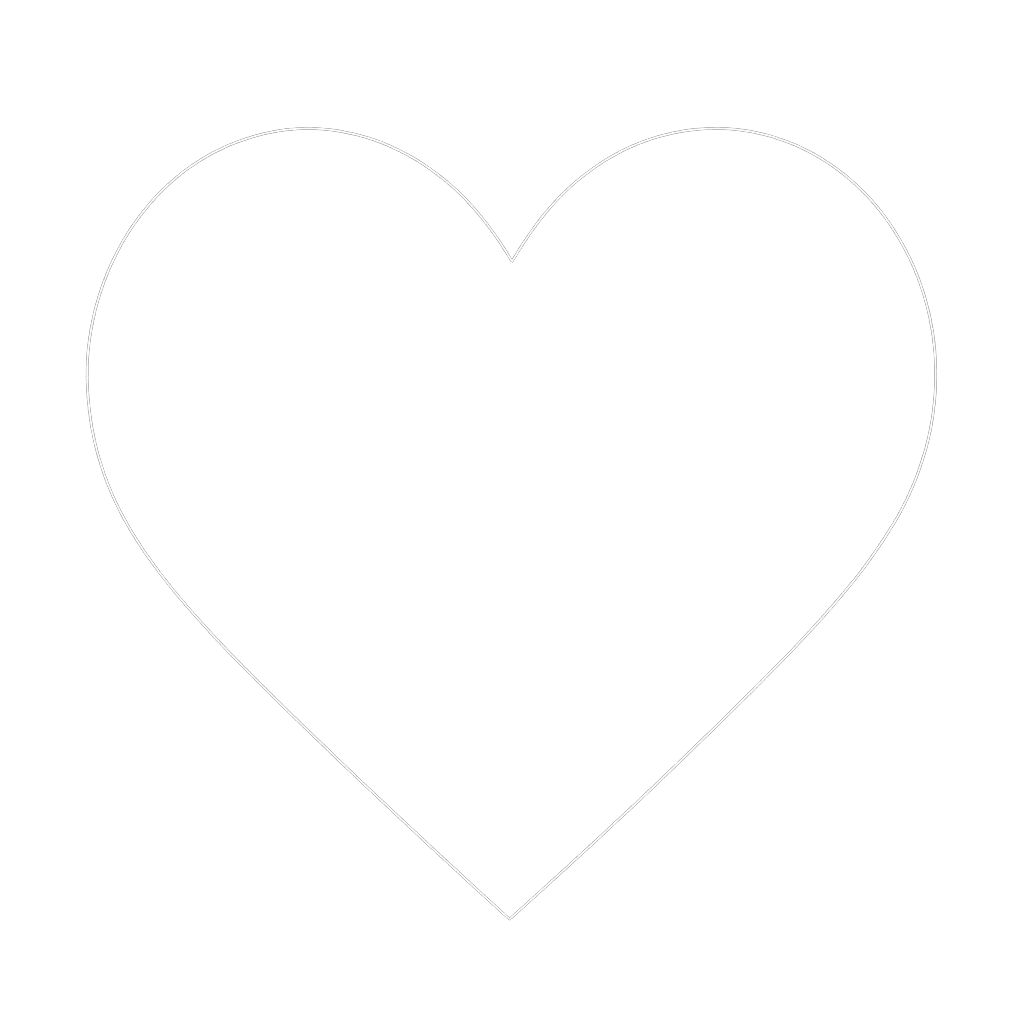
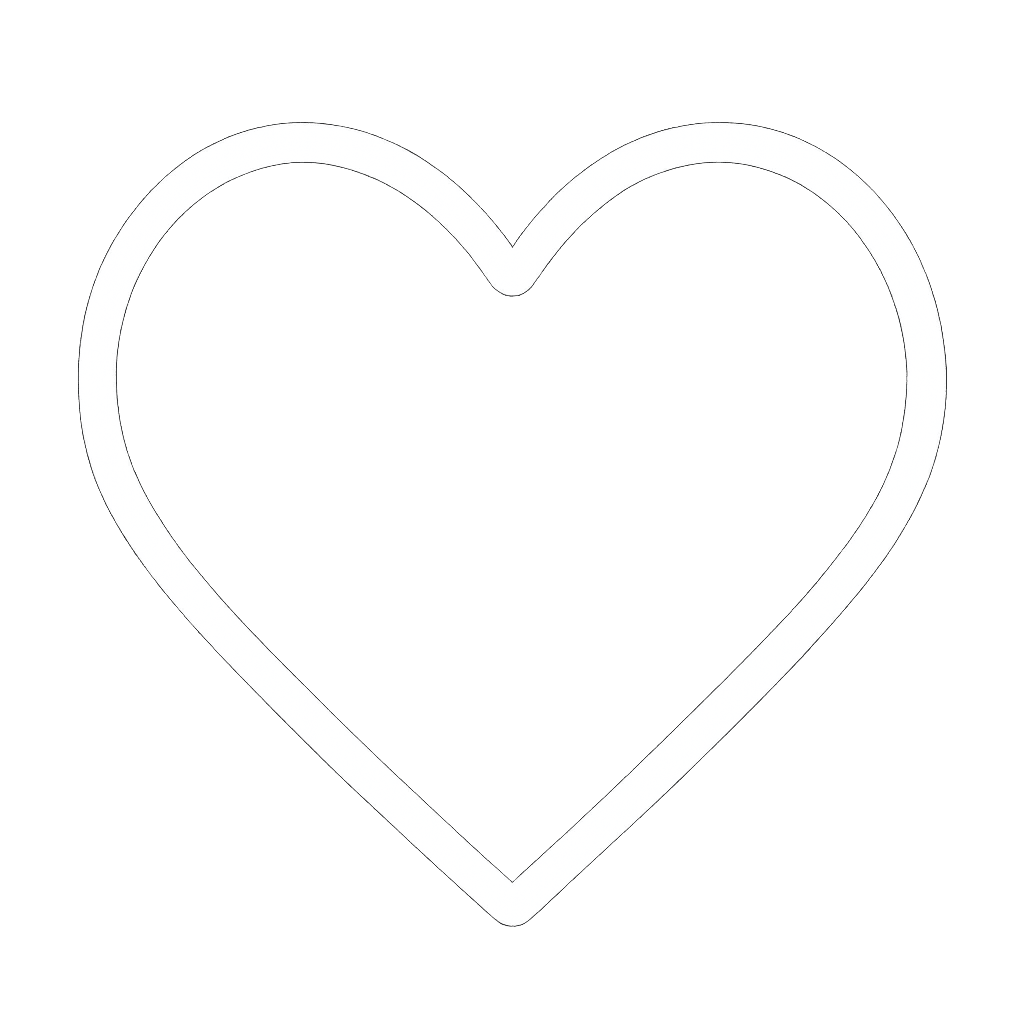
feat(web): comment like heart image change, child comment get error

diff --git a/web/components/CommentRow.tsx b/web/components/CommentRow.tsx
@@ -1,6 +1,7 @@
 'use client';
 
 import { useEffect, useRef, useState } from 'react';
+import Image from 'next/image';
 import Avatar from '@/components/Avatar';
 import { useAuthModal } from '@/contexts/AuthModalContext';
 import {
@@ -35,17 +36,17 @@ export default function CommentRow({
   const { open: openAuth } = useAuthModal();
   const me = typeof window !== 'undefined' ? loadUserProfile() : null;
 
-  // 좋아요(카운트는 서버 값 그대로)
+  // 상위 댓글 좋아요
   const { liked, displayCount, toggle, toggling } = useCommentLike(
     comment.id,
     comment.likeCount
   );
 
-  // 삭제(내가 쓴 댓글만 노출)
+  // 삭제(내가 쓴 댓글만)
   const iAmAuthor = me?.id && me.id === comment.author.id;
   const { mutate: del, isPending: deleting } = useDeleteComment();
 
-  // 대댓글 영역
+  // 대댓글 목록/페이징
   const [repliesOpen, setRepliesOpen] = useState(false);
   const {
     nodes: replies,
@@ -84,7 +85,7 @@ export default function CommentRow({
     );
   };
 
-  // 서버가 준 replyCount 활용(0 또는 null/undefined면 링크 숨김)
+  // 서버가 준 replyCount 우선 사용
   const serverReplyCount =
     typeof comment.replyCount === 'number'
       ? comment.replyCount
@@ -117,7 +118,7 @@ export default function CommentRow({
         {/* 액션 라인 */}
         <div className='mt-2 flex items-center gap-5 text-sm text-white/60'>
           <button
-            className={`hover:text-white ${liked ? 'text-white' : ''}`}
+            className={`hover:text-white inline-flex items-center gap-1 ${liked ? 'text-white' : ''}`}
             onClick={() => {
               if (!hasStoredToken()) {
                 openAuth('login');
@@ -127,7 +128,13 @@ export default function CommentRow({
             }}
             disabled={toggling}
           >
-            좋아요{' '}
+            <Image
+              src={liked ? '/images/like.png' : '/images/empty_heart.png'}
+              alt='heart'
+              width={16}
+              height={16}
+            />
+            <span>좋아요</span>
             {displayCount > 0 && (
               <span className='text-white/50'>{displayCount}</span>
             )}
@@ -163,7 +170,7 @@ export default function CommentRow({
           )}
         </div>
 
-        {/* ▼ “답글 N개 보기”는 액션 라인 '아래'에 단독으로 표기 */}
+        {/* ▼ “답글 N개 보기” */}
         {!repliesOpen && hasReplies && (
           <div className='mt-2'>
             <button
@@ -185,26 +192,7 @@ export default function CommentRow({
                 <div className='text-white/50 text-sm'>불러오는 중…</div>
               )}
               {replies.map(r => (
-                <div key={r.id} className='flex items-start gap-2'>
-                  <Avatar src={r.author.avatarUrl} size={28} />
-                  <div className='flex-1 min-w-0'>
-                    <div className='flex items-center gap-2'>
-                      <div className='text-sm font-semibold'>
-                        {r.author.displayName}
-                      </div>
-                      <div className='text-xs text-white/40'>
-                        {timeAgo(r.createdAt)}
-                      </div>
-                    </div>
-                    <div className='mt-1 text-[14px] leading-5'>
-                      {r.isDeleted ? (
-                        <span className='text-white/40'>(삭제됨)</span>
-                      ) : (
-                        r.text
-                      )}
-                    </div>
-                  </div>
-                </div>
+                <ReplyRow key={r.id} reply={r} />
               ))}
               <div ref={bottomRef} className='h-4' />
               {isFetchingNextPage && (
@@ -212,7 +200,7 @@ export default function CommentRow({
               )}
             </div>
 
-            {/* 대댓글 작성 */}
+            {/* 대댓글 작성 — 언더라인을 텍스트 바로 아래로 */}
             <div className='flex items-start gap-2'>
               <Avatar
                 src={
@@ -229,9 +217,9 @@ export default function CommentRow({
                     value={reply}
                     onChange={e => setReply(e.target.value)}
                     placeholder='답글 추가...'
-                    className='w-full resize-none bg-transparent outline-none px-0 py-1 text-[14px]'
+                    className='w-full resize-none bg-transparent outline-none px-0 py-0 text-[14px] leading-[1.35]'
                   />
-                  <div className='h-px bg-white/20' />
+                  <div className='absolute left-0 right-0 bottom-[2px] h-px bg-white/35' />
                 </div>
                 <div className='mt-2 flex items-center gap-3'>
                   <button
@@ -259,6 +247,84 @@ export default function CommentRow({
             </div>
           </div>
         )}
+      </div>
+    </div>
+  );
+}
+
+/** ▼ 대댓글 한 줄 — 훅을 여기서 호출 (map 내부 호출 금지) */
+function ReplyRow({ reply }: { reply: CommentNode }) {
+  const { open: openAuth } = useAuthModal();
+  const me = typeof window !== 'undefined' ? loadUserProfile() : null;
+  const iAmReplyAuthor = me?.id && me.id === reply.author.id;
+
+  const {
+    liked: rLiked,
+    displayCount: rCount,
+    toggle: rToggle,
+    toggling: rToggling,
+  } = useCommentLike(reply.id, reply.likeCount);
+
+  const { mutate: delReply, isPending: delReplying } = useDeleteComment();
+
+  return (
+    <div className='flex items-start gap-2'>
+      <Avatar src={reply.author.avatarUrl} size={28} />
+      <div className='flex-1 min-w-0'>
+        <div className='flex items-center gap-2'>
+          <div className='text-sm font-semibold'>
+            {reply.author.displayName}
+          </div>
+          <div className='text-xs text-white/40'>
+            {timeAgo(reply.createdAt)}
+          </div>
+        </div>
+        <div className='mt-1 text-[14px] leading-5'>
+          {reply.isDeleted ? (
+            <span className='text-white/40'>(삭제됨)</span>
+          ) : (
+            reply.text
+          )}
+        </div>
+
+        <div className='mt-1 flex items-center gap-4 text-xs text-white/60'>
+          <button
+            className={`hover:text-white inline-flex items-center gap-1 ${rLiked ? 'text-white' : ''}`}
+            onClick={() => {
+              if (!hasStoredToken()) {
+                openAuth('login');
+                return;
+              }
+              rToggle();
+            }}
+            disabled={rToggling}
+          >
+            <Image
+              src={rLiked ? '/images/like.png' : '/images/empty_heart.png'}
+              alt='heart'
+              width={14}
+              height={14}
+            />
+            <span>좋아요</span>
+            {rCount > 0 && <span className='text-white/50'>{rCount}</span>}
+          </button>
+
+          {iAmReplyAuthor && (
+            <button
+              className='hover:text-white'
+              onClick={() => {
+                if (!hasStoredToken()) {
+                  openAuth('login');
+                  return;
+                }
+                delReply({ commentId: reply.id });
+              }}
+              disabled={delReplying}
+            >
+              삭제
+            </button>
+          )}
+        </div>
       </div>
     </div>
   );

diff --git a/web/components/CommentsPanel.tsx b/web/components/CommentsPanel.tsx
@@ -63,7 +63,6 @@ export default function CommentsPanel() {
   if (!mounted) return null;
 
   return (
-    // ✅ 댓글 패널을 아주 높은 z-index로 고정해서 어떤 요소보다 항상 위
     <div
       className={`fixed inset-0 z-[1000] ${isOpen ? 'pointer-events-auto' : 'pointer-events-none'}`}
     >
@@ -110,7 +109,7 @@ export default function CommentsPanel() {
           )}
         </div>
 
-        {/* 하단 작성 */}
+        {/* 하단 작성 — 언더라인을 absolute로 딱 붙게 */}
         <div className='p-3 border-t border-white/10'>
           <div className='flex items-start gap-3'>
             <Avatar
@@ -126,9 +125,10 @@ export default function CommentsPanel() {
                   value={text}
                   onChange={e => setText(e.target.value)}
                   placeholder='댓글 추가...'
-                  className='w-full resize-none bg-transparent outline-none px-0 py-1 text-[15px]'
+                  className='w-full resize-none bg-transparent outline-none px-0 py-1 text-[15px] leading-5'
                 />
-                <div className='h-px bg-white/20' />
+                {/* ⬇ 밑줄을 텍스트 영역 바로 아래에 고정 */}
+                <div className='absolute left-0 right-0 bottom-[25px] h-px bg-white/30' />
               </div>
               <div className='mt-2 flex justify-end gap-2'>
                 <button
